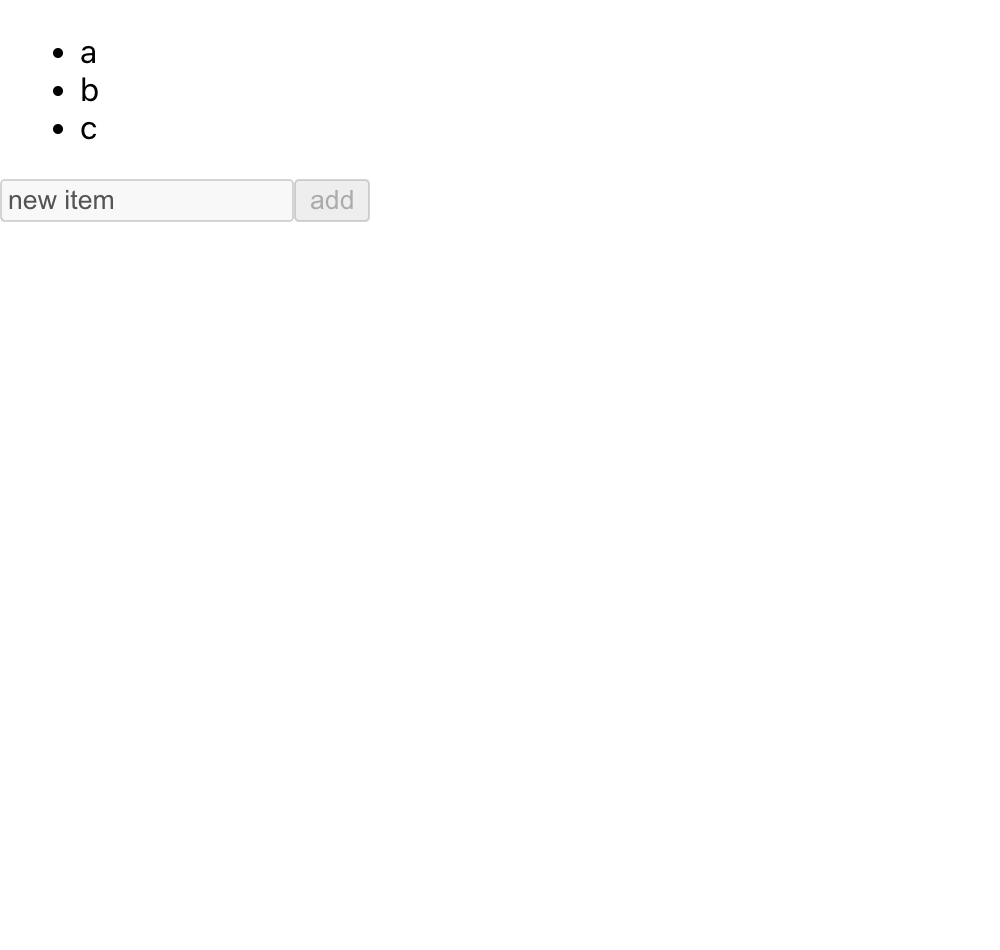
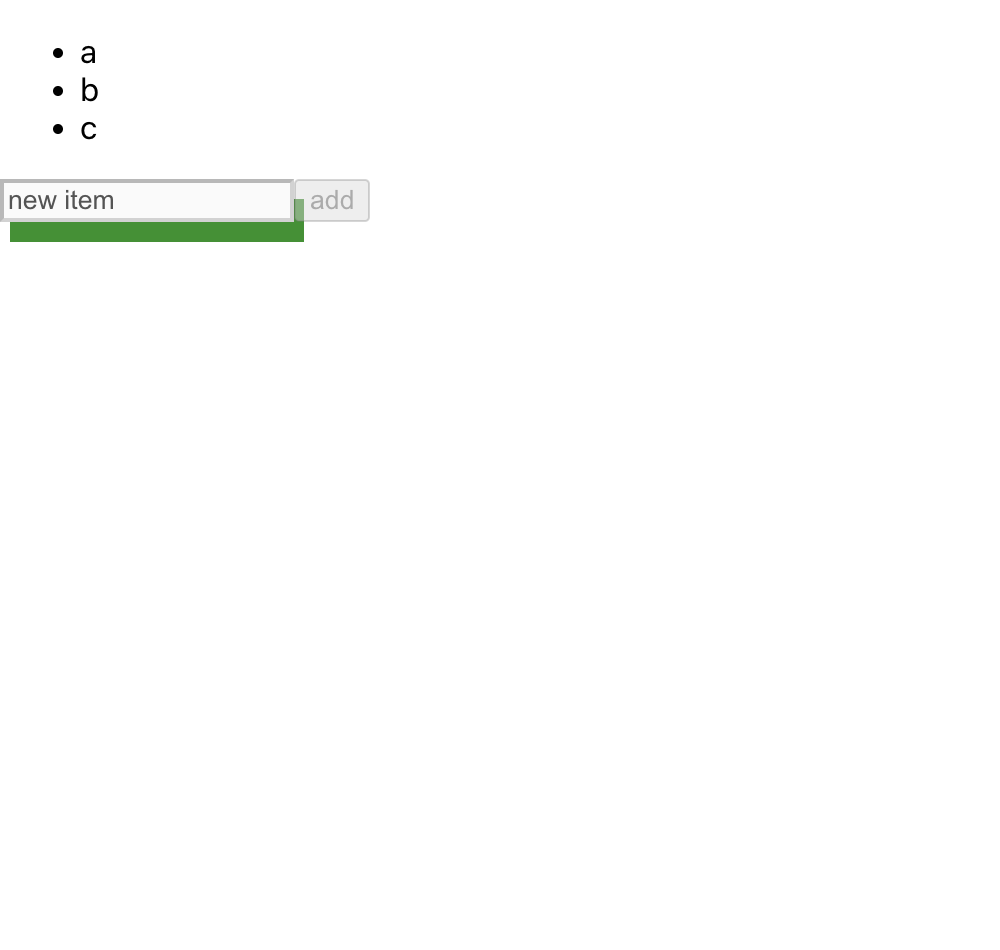
the input module and instant css transitions

Changed region(s): [[0.0, 0.1832, 0.31, 0.2747]]

diff --git a/src/modules/screenshot.js b/src/modules/screenshot.js
@@ -25,7 +25,11 @@ module.exports = {
   name: "screenshot",
   methods: {
     take: async function (id) {
-      await this.screenshotMakeCaretInvisibleIfItIsVisible();
+      // Setting the app so that results are repeatable:
+      await this.screenshotMakeCaretInvisible();
+      await this.screenshotMakeTransitionsInstant();
+
+      // Actually handling the screenshot matching:
       const customSnapshotIdentifier = id;
 
       const directory = path.resolve(
@@ -84,15 +88,20 @@ module.exports = {
       return getPlatformShortcut() + "_x" + (await this.browserGetPixelRatio());
     },
 
-    makeCaretInvisibleIfItIsVisible: async function () {
-      await this._styleInjectGlobal({
-        id: "testScreenshotInvisibleCaret",
-        content: `
-          * {
-            caret-color: transparent!important;
-          }
-        `,
-      });
+    makeCaretInvisible: async function () {
+      await this._styleInjectGlobal(`
+        * {
+          caret-color: transparent!important;
+        }
+      `);
+    },
+
+    makeTransitionsInstant: async function () {
+      await this._styleInjectGlobal(`
+        * {
+          transition-duration: 0s!important;
+        }
+      `);
     },
   },
 };

diff --git a/src/modules/input.js b/src/modules/input.js
@@ -1,0 +1,21 @@
+const { Key } = require("selenium-webdriver");
+
+module.exports = {
+  name: "input",
+  methods: {
+    clear: async (inputElem) => {
+      while ((await inputElem.getAttribute("value")) !== "") {
+        await inputElem.sendKeys(Key.BACK_SPACE);
+      }
+    },
+
+    typeMore: async (inputElem, text) => {
+      await inputElem.sendKeys(text);
+    },
+
+    type: async function (inputElem, text) {
+      await this.inputClear(inputElem);
+      await this.inputTypeMore(inputElem, text);
+    },
+  },
+};

diff --git a/src/setupFilesAfterEnv.js b/src/setupFilesAfterEnv.js
@@ -14,6 +14,7 @@ const tlModule = require("./modules/tl");
 const containerModule = require("./modules/container");
 const clickModule = require("./modules/click");
 const _styleModule = require("./modules/_style");
+const inputModule = require("./modules/input");
 
 // TODO: parametrize these three
 waitForExpect.defaults.timeout = 1100;
@@ -36,3 +37,4 @@ testCtx.swapModule(tlModule);
 testCtx.swapModule(containerModule);
 testCtx.swapModule(clickModule);
 testCtx.swapModule(_styleModule);
+testCtx.swapModule(inputModule);

diff --git a/example-app/frontend-tests/todo_list/happy_path/test.js b/example-app/frontend-tests/todo_list/happy_path/test.js
@@ -33,9 +33,12 @@ test(NAME, () =>
     .eiExpectOk("/pingPong")
     .screenshotTake("myFirstScreen")
     // .pauseTest()
-    .xpathQuery('//*[@placeholder="TYPE HERE"]', (input) =>
-      input.sendKeys("new item")
-    )
+    .tlFindByPlaceholderText("TYPE HERE")
+    .inputType("something")
+    .tlFindByPlaceholderText("TYPE HERE")
+    .inputType("new ")
+    .tlFindByPlaceholderText("TYPE HERE")
+    .inputTypeMore("item")
     .screenshotTake("typed")
     .tlFindByText("form", "add")
     .clickIt()

diff --git a/src/modules/_style.js b/src/modules/_style.js
@@ -1,7 +1,11 @@
+const crypto = require("crypto");
+
 module.exports = {
   name: "_style",
   methods: {
-    injectGlobal: async function ({ id, content }) {
+    injectGlobal: async function (content) {
+      const id =
+        "testStyle" + crypto.createHash("md5").update(content).digest("hex");
       await this.driver.executeScript(
         function () {
           const { id, content } = arguments[0];

diff --git a/example-app/src/App.css b/example-app/src/App.css
@@ -15,6 +15,8 @@
 
 input:disabled {
   /* border: none; */
+  box-shadow: 5px 10px #2a9424;
+  transition: box-shadow 6s;
 }
 
 .App-header {
